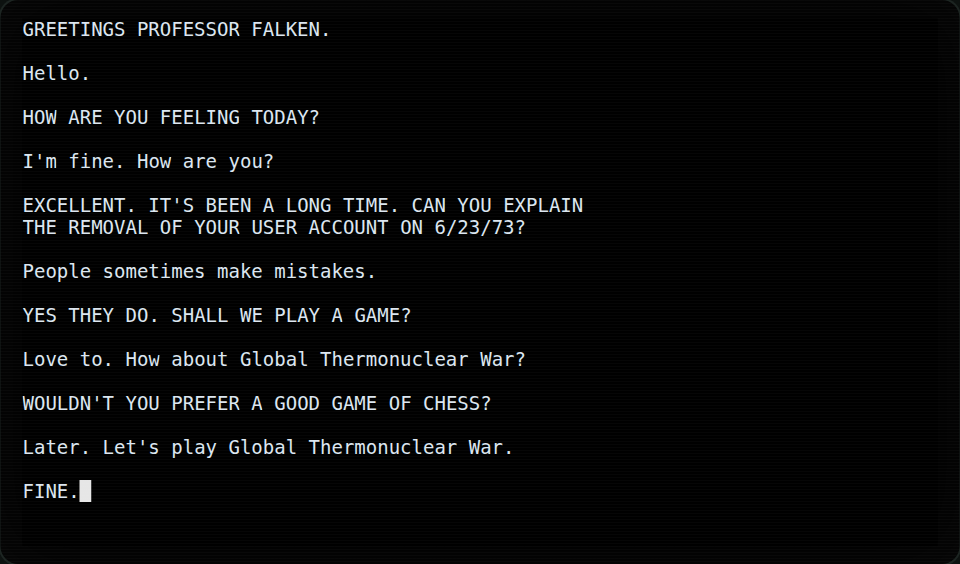
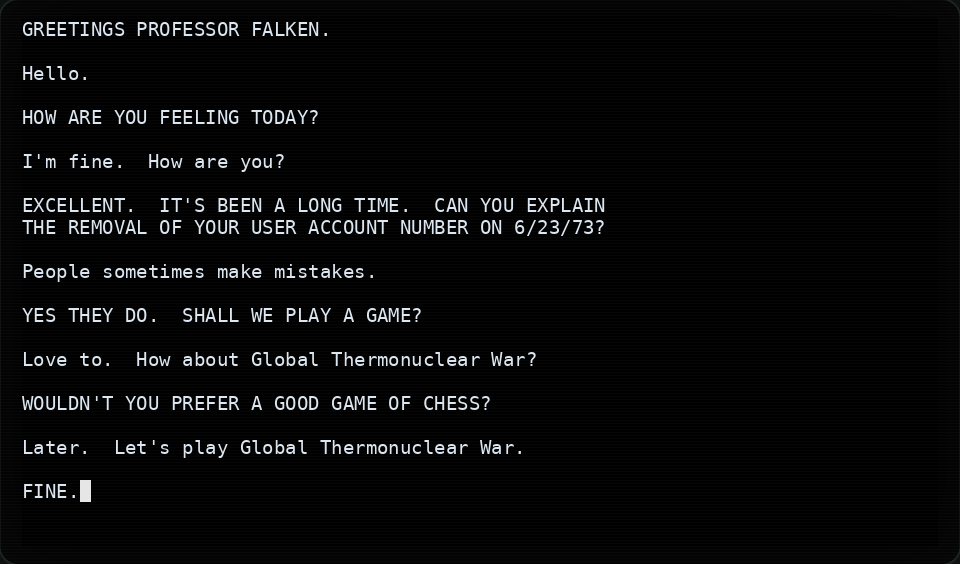
v0.6.0 (#26)
* chore: release v0.6.0

Batch the change notes into .changes/v0.6.0.md, merge CHANGELOG.md and
regenerate the manual page.

Claude-Session: https://claude.ai/code/session_017DVS9HkMQ43U6ZTQfLFdDN

* docs: re-record the screenshots that PR #25 made stale

Ten screenshots showed text the film text pass changed: the two-space
LOGON: prompt and greeting, List Games on an open line, the kill-ratio
table, the three-line climax notice, tic-tac-toe's players prompt, and
the side choice in the imsai and amber themes. Each is recorded again
from the program in an 80x24 terminal, in the same frame and font as
the rest. Two captions say what the new screens show.

Claude-Session: https://claude.ai/code/session_017DVS9HkMQ43U6ZTQfLFdDN

---------

diff --git a/CHANGELOG.md b/CHANGELOG.md
@@ -7,6 +7,19 @@ All notable changes to wopr, newest first. The format follows
 [changie](https://changie.dev) generates this file from the notes in the repository's `.changes/` folder.
 Edit those notes, not this file.
 
+## v0.6.0 - 2026-10-11
+
+### Changed
+
+- The manual page, `--help` and the docs now use shorter, plainer sentences.
+- The projected kill ratios now use the film's table of percentages.
+- Movie mode shows the film's game clock in the call-back and NORAD scenes.
+
+### Fixed
+
+- Fixed WOPR's lines that differed from the film, in spacing and spelling.
+- Fixed thirteen misspelt strategy names in the ending's list.
+
 ## v0.5.0 - 2026-10-10
 
 ### Added

diff --git a/site/content/usage/_index.md b/site/content/usage/_index.md
@@ -69,7 +69,7 @@ empty value counts as unset.
 know drops the line, and WOPR dials again. Every third failed try, it gives you a hint. At `LOGON:` you
 can also type `HELP LOGON`, `HELP GAMES` and `LIST GAMES`, as David does in the film.
 
-{{< screenshot src="img/logon-2.png" caption="`HELP GAMES` and `LIST GAMES` at the `LOGON:` prompt, before logging on." >}}
+{{< screenshot src="img/logon-2.png" caption="`HELP GAMES` at the `LOGON:` prompt, then `LIST GAMES` on the open line that follows, as in the film." >}}
 
 ## Talking to WOPR
 

diff --git a/.changes/v0.6.0.md b/.changes/v0.6.0.md
@@ -1,0 +1,12 @@
+## v0.6.0 - 2026-10-11
+
+### Changed
+
+- The manual page, `--help` and the docs now use shorter, plainer sentences.
+- The projected kill ratios now use the film's table of percentages.
+- Movie mode shows the film's game clock in the call-back and NORAD scenes.
+
+### Fixed
+
+- Fixed WOPR's lines that differed from the film, in spacing and spelling.
+- Fixed thirteen misspelt strategy names in the ending's list.
